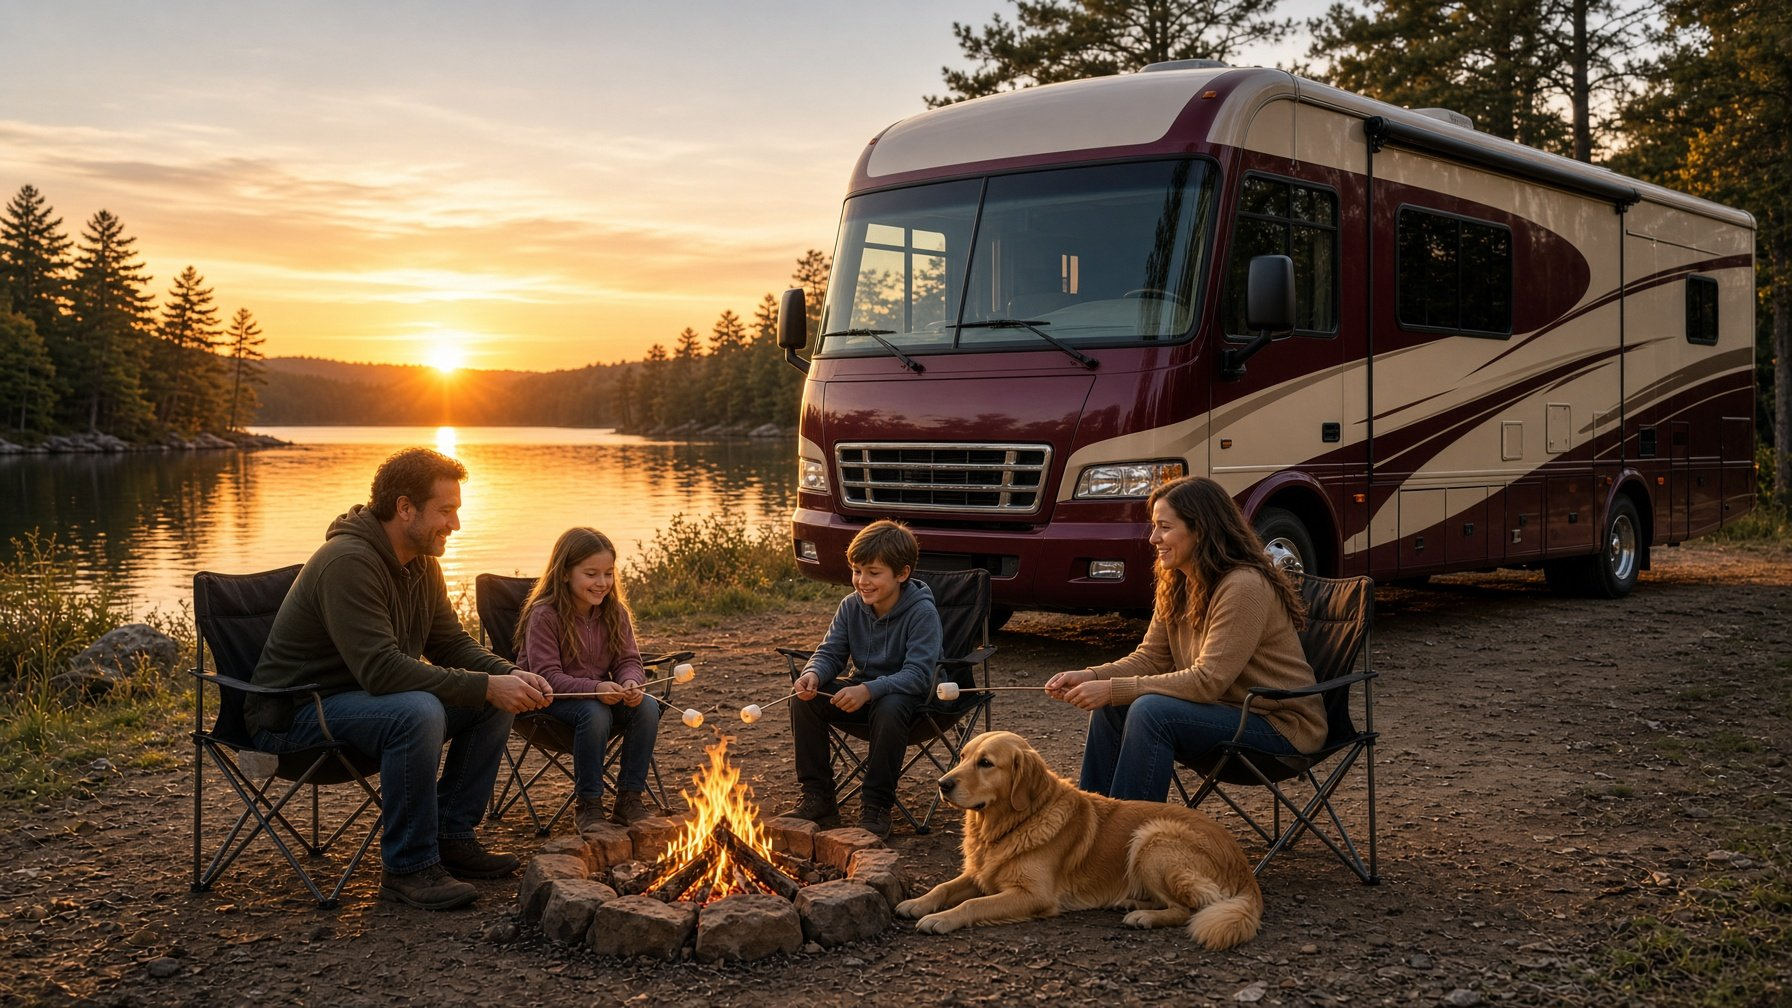
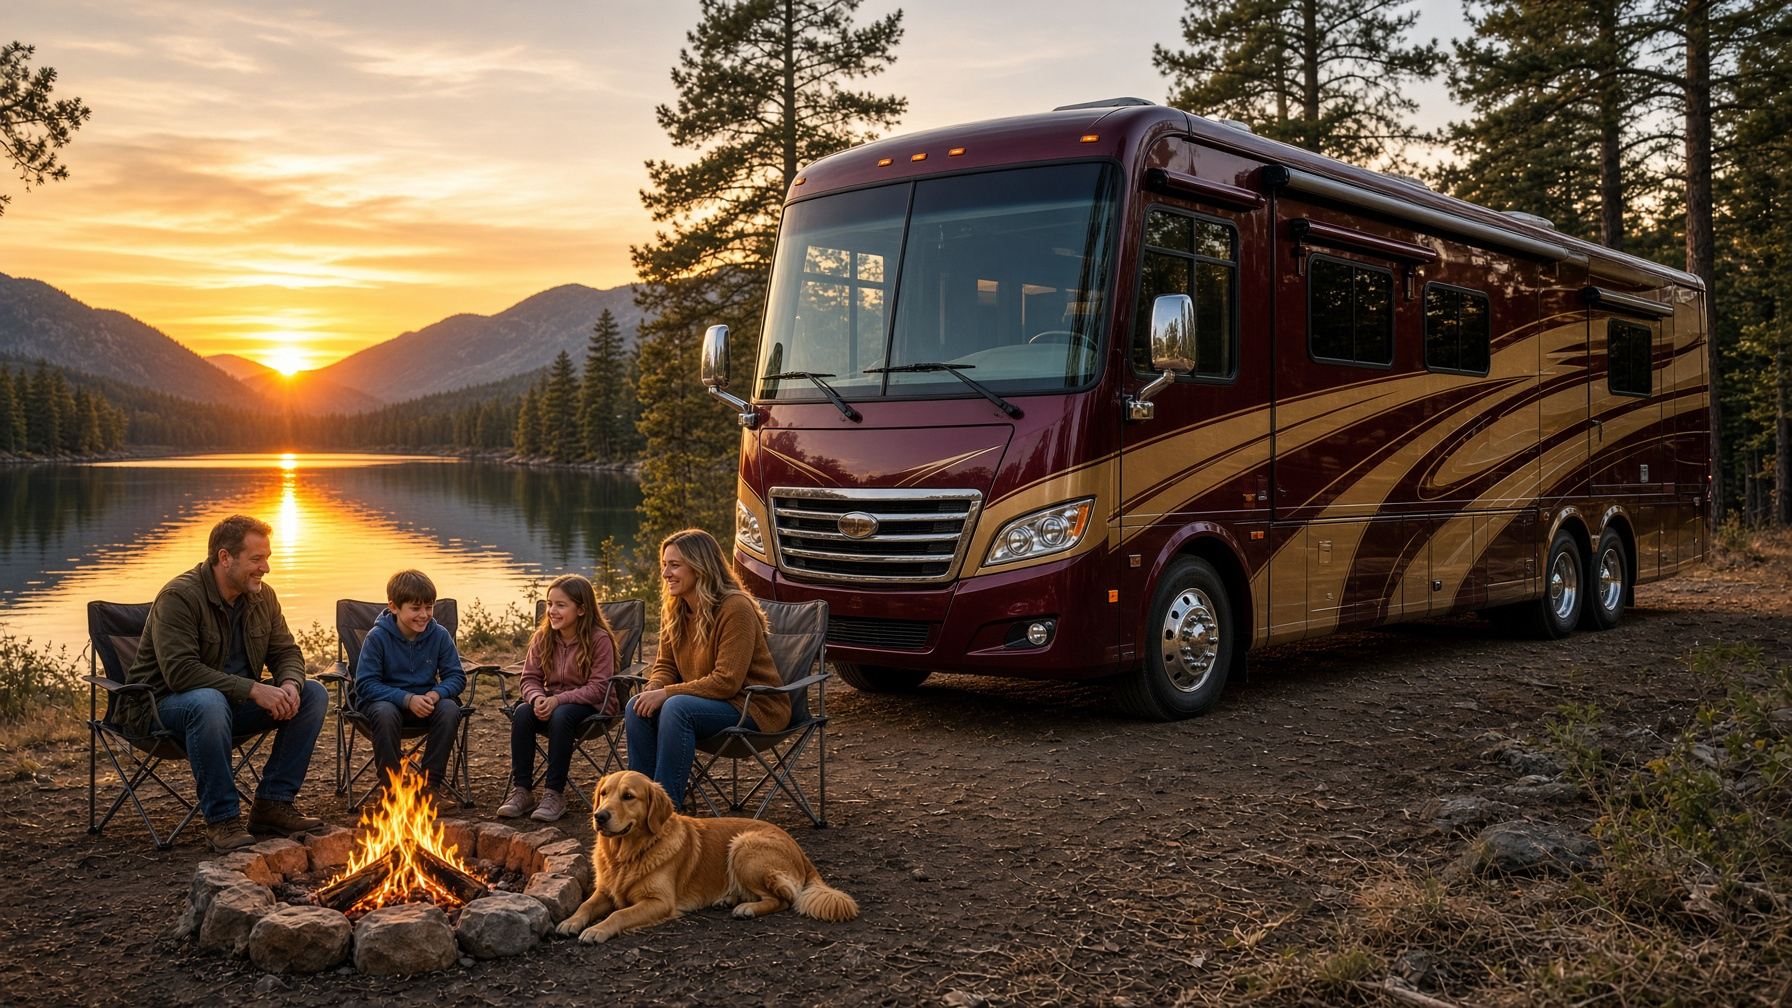
Fix iPhone report chrome and Class A lifestyle stills.
Back/Save sit in a sticky bar below the status-bar clock. Class A gas is a bus-front full-body-paint coach with two axles; Class A diesel uses the luxury Entegra look at the lake.

diff --git a/src/components/rvfax/RvDetail.tsx b/src/components/rvfax/RvDetail.tsx
@@ -560,29 +560,30 @@ export function RvDetail({
         className="rv-scroll relative z-10 h-full overflow-y-auto overscroll-y-contain"
       >
         <PullResetHint show={pullHint} label="Release to go back" />
+        {/* Sticky under the iPhone clock / Dynamic Island — Back was covered */}
         <div
-          id="rvfax-vehicle-report"
-          className="mx-auto w-full max-w-lg space-y-5 px-4 pb-32 pt-4 sm:px-5"
+          className="sticky top-0 z-30 border-b border-white/10 bg-black/70 backdrop-blur-md"
+          data-no-export
+          style={{
+            paddingTop:
+              "max(0.65rem, calc(env(safe-area-inset-top, 0px) + 0.35rem))",
+          }}
         >
-          {/* Top actions */}
-          <div
-            className="flex flex-wrap items-center justify-between gap-2"
-            data-no-export
-          >
+          <div className="mx-auto flex w-full max-w-lg flex-wrap items-center justify-between gap-2 px-4 pb-2.5 sm:px-5">
             <button
               type="button"
               onClick={onBack}
-              className="inline-flex items-center gap-1.5 rounded-full border border-white/20 bg-black/40 px-3 py-1.5 text-[12px] font-bold text-white"
+              className="inline-flex min-h-[44px] items-center gap-1.5 rounded-full border border-white/20 bg-black/40 px-3.5 py-2 text-[12px] font-bold text-white"
             >
               <ArrowLeft className="size-3.5" />
               Back
             </button>
-            <div className="flex flex-wrap items-center gap-1.5">
+            <div className="flex min-w-0 flex-wrap items-center justify-end gap-1.5">
               <button
                 type="button"
                 onClick={onToggleSave}
                 className={cn(
-                  "inline-flex items-center gap-1.5 rounded-full border px-3 py-1.5 text-[12px] font-bold",
+                  "inline-flex min-h-[44px] items-center gap-1.5 rounded-full border px-3 py-2 text-[12px] font-bold",
                   saved
                     ? "border-ruby/50 bg-ruby/25 text-white"
                     : "border-white/20 bg-black/40 text-white",
@@ -597,7 +598,7 @@ export function RvDetail({
                   onClick={onToggleCompare}
                   disabled={!comparing && compareFull}
                   className={cn(
-                    "inline-flex items-center gap-1.5 rounded-full border px-3 py-1.5 text-[12px] font-bold disabled:opacity-40",
+                    "inline-flex min-h-[44px] items-center gap-1.5 rounded-full border px-3 py-2 text-[12px] font-bold disabled:opacity-40",
                     comparing
                       ? "border-sky-400/50 bg-sky-500/20 text-sky-100"
                       : "border-white/20 bg-black/40 text-white",
@@ -615,7 +616,7 @@ export function RvDetail({
                 <button
                   type="button"
                   onClick={onOpenCompare}
-                  className="inline-flex items-center gap-1.5 rounded-full border border-gold/45 bg-gold/15 px-3 py-1.5 text-[12px] font-bold text-gold-bright"
+                  className="inline-flex min-h-[44px] items-center gap-1.5 rounded-full border border-gold/45 bg-gold/15 px-3 py-2 text-[12px] font-bold text-gold-bright"
                 >
                   Open compare
                 </button>
@@ -629,7 +630,7 @@ export function RvDetail({
                       `${year} ${make} ${model}`,
                     )
                   }
-                  className="inline-flex items-center gap-1.5 rounded-full border border-gold/40 bg-gold/15 px-3 py-1.5 text-[12px] font-bold text-gold-bright"
+                  className="inline-flex min-h-[44px] items-center gap-1.5 rounded-full border border-gold/40 bg-gold/15 px-3 py-2 text-[12px] font-bold text-gold-bright"
                 >
                   <Calculator className="size-3.5" />
                   Finance
@@ -639,7 +640,7 @@ export function RvDetail({
                 type="button"
                 onClick={() => void exportPdf()}
                 disabled={exportBusy}
-                className="inline-flex items-center gap-1.5 rounded-full border border-white/20 bg-black/40 px-3 py-1.5 text-[12px] font-bold text-white disabled:opacity-50"
+                className="inline-flex min-h-[44px] items-center gap-1.5 rounded-full border border-white/20 bg-black/40 px-3 py-2 text-[12px] font-bold text-white disabled:opacity-50"
               >
                 {exportBusy ? (
                   <Loader2 className="size-3.5 animate-spin" />
@@ -651,13 +652,18 @@ export function RvDetail({
               <button
                 type="button"
                 onClick={onAskGrok}
-                className="inline-flex items-center gap-1.5 rounded-full border border-blue/40 bg-blue/25 px-3 py-1.5 text-[12px] font-bold text-white"
+                className="inline-flex min-h-[44px] items-center gap-1.5 rounded-full border border-blue/40 bg-blue/25 px-3 py-2 text-[12px] font-bold text-white"
               >
                 <Sparkles className="size-3.5 text-blue" />
                 Ask Grok
               </button>
             </div>
           </div>
+        </div>
+        <div
+          id="rvfax-vehicle-report"
+          className="mx-auto w-full max-w-lg space-y-5 px-4 pb-32 pt-3 sm:px-5"
+        >
           {exportMsg ? (
             <p className="text-center text-[11px] text-blue" data-no-export>
               {exportMsg}

diff --git a/src/components/rvfax/RvCompare.tsx b/src/components/rvfax/RvCompare.tsx
@@ -242,17 +242,18 @@ export function RvCompare({
         className="rv-scroll relative z-10 h-full overflow-y-auto overscroll-y-contain"
       >
         <div
-          id="rvfax-compare-report"
-          className="mx-auto w-full max-w-2xl space-y-3 px-3 pb-20 pt-3 sm:px-4"
+          className="sticky top-0 z-30 border-b border-white/10 bg-black/70 backdrop-blur-md"
+          data-no-export
+          style={{
+            paddingTop:
+              "max(0.65rem, calc(env(safe-area-inset-top, 0px) + 0.35rem))",
+          }}
         >
-          <div
-            className="flex items-center justify-between gap-2 print:hidden"
-            data-no-export
-          >
+          <div className="mx-auto flex w-full max-w-2xl items-center justify-between gap-2 px-3 pb-2.5 sm:px-4">
             <button
               type="button"
               onClick={onBack}
-              className="inline-flex items-center gap-1.5 rounded-full border border-white/20 bg-black/40 px-3 py-1.5 text-[12px] font-bold text-white"
+              className="inline-flex min-h-[44px] items-center gap-1.5 rounded-full border border-white/20 bg-black/40 px-3.5 py-2 text-[12px] font-bold text-white"
             >
               <ArrowLeft className="size-3.5" />
               Back
@@ -265,15 +266,23 @@ export function RvCompare({
               onClick={() => void exportPdf()}
               disabled={exportBusy}
               className={cn(
-                "inline-flex touch-manipulation items-center gap-1.5 rounded-full border border-white/25 bg-black/50 px-3 py-2 text-[12px] font-bold text-white active:scale-[0.97]",
+                "inline-flex min-h-[44px] touch-manipulation items-center gap-1.5 rounded-full border border-white/25 bg-black/50 px-3 py-2 text-[12px] font-bold text-white active:scale-[0.97]",
                 exportBusy && "opacity-70",
               )}
             >
-              <Printer className="size-3.5" />
-              {exportBusy ? "…" : "PDF"}
+              {exportBusy ? (
+                <Loader2 className="size-3.5 animate-spin" />
+              ) : (
+                <Printer className="size-3.5" />
+              )}
+              PDF
             </button>
           </div>
-
+        </div>
+        <div
+          id="rvfax-compare-report"
+          className="mx-auto w-full max-w-2xl space-y-3 px-3 pb-20 pt-3 sm:px-4"
+        >
           {exportMsg ? (
             <div
               role="status"
